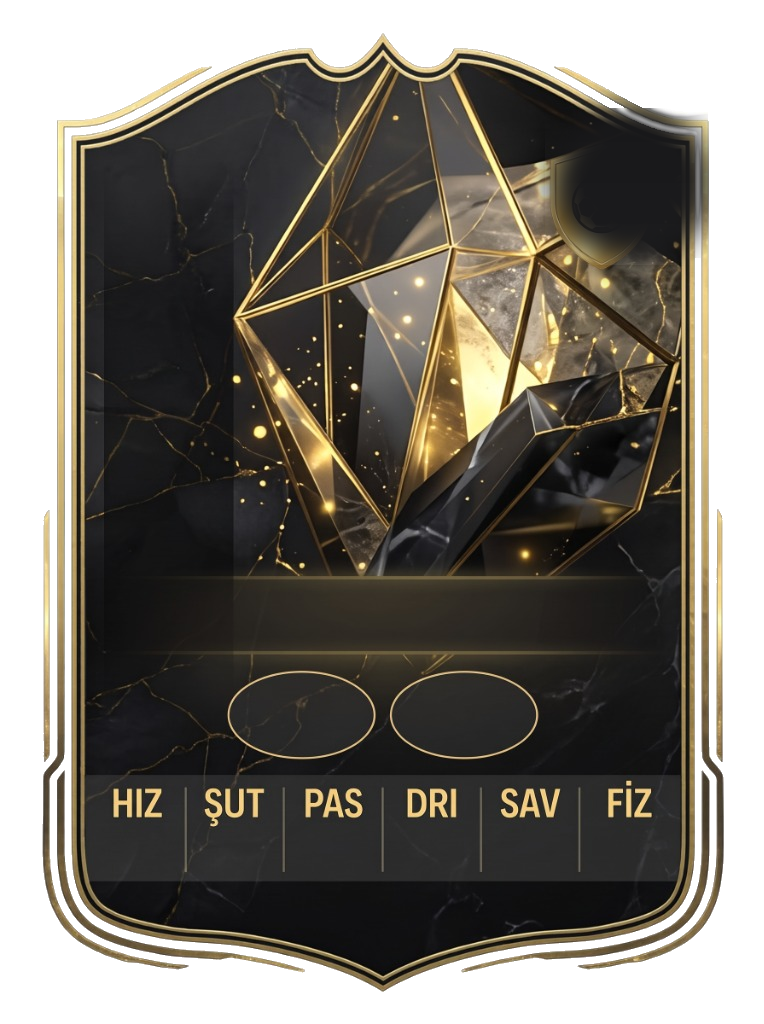
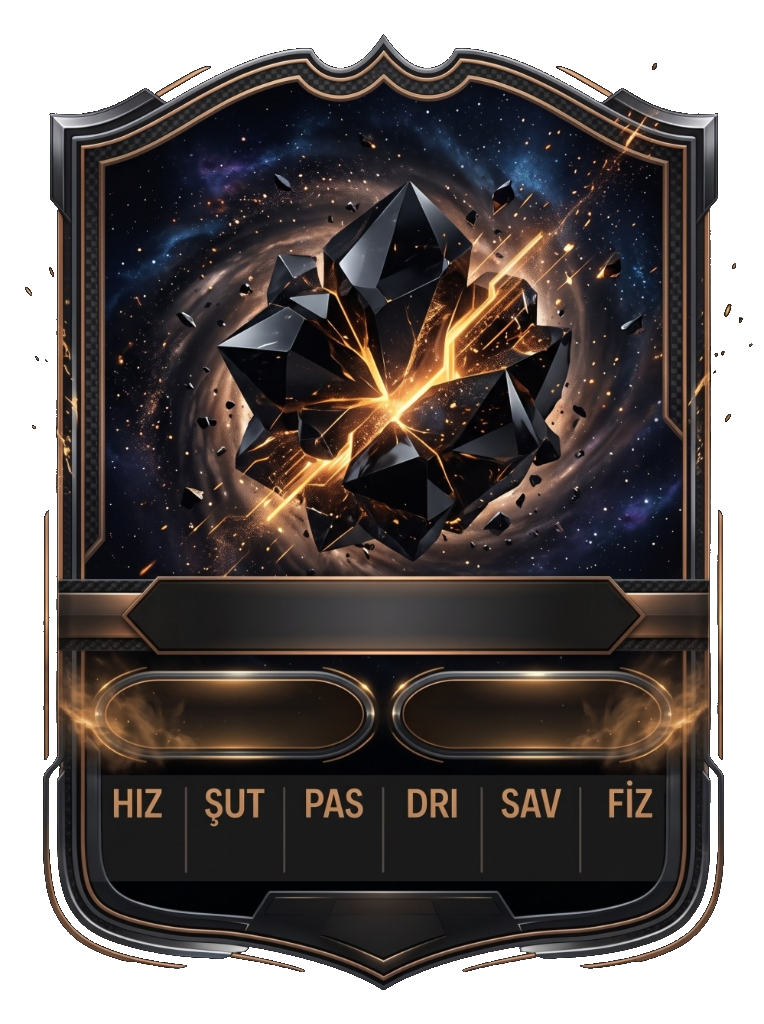
feat(theme): update TOTW to MVP (Most Valuable Player) with new obsidian template and prominent enlarged 3D crest

diff --git a/src/components/card/CardCustomizer.tsx b/src/components/card/CardCustomizer.tsx
@@ -49,7 +49,7 @@ interface Props {
 
 const THEME_INFO: Record<CardTheme, { label: string; icon: string; title: string; desc: string }> = {
   gold: { label: 'Altın', icon: '🟡', title: 'Standart FC 27 Kartı', desc: 'Her oyuncunun temel lig kartıdır.' },
-  totw: { label: 'TOTW', icon: '⚫', title: 'Haftanın MVP Takımı', desc: 'Haftanın en iyi oyuncularına Kurul tarafından hediye edilir.' },
+  totw: { label: 'MVP', icon: '⭐', title: 'Haftanın En Değerli Oyuncusu (MVP)', desc: 'Haftanın en iyi oyuncusuna Kurul ve maç sonu oylaması tarafından hediye edilir.' },
   inform: { label: 'In-Form', icon: '🔥', title: 'Alevli / Formda', desc: 'Yüksek form grafiği ve parlayan performanslar için Kurul tarafından verilir.' },
   revir: { label: 'Revir', icon: '🩹', title: 'Bandajlı Sakat Raporu', desc: 'Maç öncesi sakatlık check-in durumu bildiren oyunculara otomatik atanır.' },
   legend: { label: 'Efsane', icon: '👑', title: 'Kulüp Efsanesi', desc: 'İsmail Abi ve Gölcür Abi gibi kulüp efsanelerine özel unvandır.' },
@@ -715,7 +715,7 @@ export const CardCustomizer: React.FC<Props> = ({
                     <div className="grid grid-cols-3 sm:grid-cols-6 gap-1.5">
                       {[
                         { id: 'gold' as CardTheme, label: 'Altın', icon: '🟡', desc: 'Standart (OVR 75+)' },
-                        { id: 'totw' as CardTheme, label: 'TOTW', icon: '⚫', desc: 'Haftanın MVP’si' },
+                        { id: 'totw' as CardTheme, label: 'MVP', icon: '⭐', desc: 'Haftanın En Değerli Oyuncusu' },
                         { id: 'inform' as CardTheme, label: 'In-Form', icon: '🔥', desc: 'Formda / Alevli' },
                         { id: 'revir' as CardTheme, label: 'Revir', icon: '🩹', desc: 'Bandajlı Sakat' },
                         { id: 'legend' as CardTheme, label: 'Efsane', icon: '👑', desc: 'İsmail & Gölcür Abi' },
@@ -748,9 +748,9 @@ export const CardCustomizer: React.FC<Props> = ({
                         <div>
                           <span className="font-bold text-white block">{themeDetails.title}</span>
                           <span className="text-[10px] text-neutral-400">
-                            {currentTheme === 'gold' && 'Standart kartınız. Sakatlıkta Revir 🩹, MVP olunca TOTW/Alev 🔥 takılır.'}
+                            {currentTheme === 'gold' && 'Standart kartınız. Sakatlıkta Revir 🩹, En iyi oyuncu seçilince MVP ⭐ veya Alev 🔥 takılır.'}
                             {currentTheme === 'revir' && 'Maç öncesi hafif sakatım check-in durumu bildirdiğiniz için takıldı.'}
-                            {currentTheme === 'totw' && 'Haftanın MVP takımı seçildiğiniz için Kurul tarafından hediye edildi.'}
+                            {currentTheme === 'totw' && 'Haftanın En Değerli Oyuncusu (MVP) seçildiğiniz için Kurul tarafından hediye edildi.'}
                             {currentTheme === 'inform' && 'Formda performansınız için Kurul tarafından hediye edildi.'}
                             {currentTheme === 'bidon' && 'Maç sonu oylamasında ceza/mizah kartı olarak takıldı.'}
                             {currentTheme === 'legend' && 'Kulüp efsanesi unvanı.'}

diff --git a/src/components/card/FCCard.tsx b/src/components/card/FCCard.tsx
@@ -106,14 +106,14 @@ export const FCCard: React.FC<Props> = ({
           ovalIconColor: 'text-[#FACC15]',
           ovalDropShadow: 'drop-shadow-[0_1px_3px_rgba(0,0,0,0.95)]',
           nameTop: 'top-[52.0%]',
-          statTop: 'top-[82.2%]',
+          statTop: 'top-[81.2%]',
           statBounds: 'left-[11.3%] right-[11.3%]',
-          ovalsTop: 'top-[65.2%]',
-          ovalsBounds: 'left-[10.5%] right-[10.5%]',
-          ovalsHeight: 'h-[7.2%]',
+          ovalsTop: 'top-[67.0%]',
+          ovalsBounds: 'left-[9.5%] right-[9.5%]',
+          ovalsHeight: 'h-[5.8%]',
           photoFrame: 'top-[11%] left-[12%] right-[8%] h-[44%]',
           isGold: false,
-          label: 'TOTW • MVP',
+          label: 'MVP (Most Valuable Player) 🏆',
         };
       case 'inform':
         return {
@@ -235,6 +235,7 @@ export const FCCard: React.FC<Props> = ({
       flagWidth: 'w-5.5 h-3.5',
       logoWidth: 'w-5.5 h-5.5',
       shieldSize: 'w-7 h-8',
+      mvpShieldSize: 'w-10 h-11',
       pillText: 'text-[8px]',
       pillPad: 'px-1.5 py-0.5',
     },
@@ -250,6 +251,7 @@ export const FCCard: React.FC<Props> = ({
       flagWidth: 'w-8 h-5',
       logoWidth: 'w-8 h-8',
       shieldSize: 'w-11 h-13',
+      mvpShieldSize: 'w-15 h-17',
       pillText: 'text-[10px]',
       pillPad: 'px-2.5 py-0.5',
     },
@@ -265,6 +267,7 @@ export const FCCard: React.FC<Props> = ({
       flagWidth: 'w-10 h-6',
       logoWidth: 'w-10 h-10',
       shieldSize: 'w-14 h-16',
+      mvpShieldSize: 'w-20 h-23',
       pillText: 'text-xs',
       pillPad: 'px-3 py-1',
     },
@@ -399,7 +402,11 @@ export const FCCard: React.FC<Props> = ({
 
         {/* Sağ Üst Tema Kalkanı (3D Parallax: translateZ(6px) - Zarif ve doğal derinlikli 3D kalkan) */}
         <div
-          className={`absolute top-[13.0%] right-[13.5%] ${sizeConfig.shieldSize} pointer-events-none z-30 select-none`}
+          className={`absolute ${
+            theme === 'totw'
+              ? `top-[9.8%] right-[9.5%] ${sizeConfig.mvpShieldSize}`
+              : `top-[13.0%] right-[13.5%] ${sizeConfig.shieldSize}`
+          } pointer-events-none z-30 select-none`}
           style={{
             transform: `translateZ(6px) translate3d(${pX * 0.06}px, ${pY * 0.06}px, 0)`,
             transition: isHovered ? 'none' : 'transform 0.35s ease-out',

diff --git a/src/components/reminder/ReminderHubModal.tsx b/src/components/reminder/ReminderHubModal.tsx
@@ -63,7 +63,7 @@ export const ReminderHubModal: React.FC<Props> = ({
       return `⚽ *RevirFC 27 • Maç Öncesi Check-In Hatırlatması*\n\nBeyler selam! ${match.title} için kadro dengeleme algoritması çalıştırılacak.\nHenüz sağlık/revir durumu bildirmeyen arkadaşlar:\n👉 ${names || 'Herkes bildirdi!'}\n\n3 saniyede durumunuzu seçip onaylayın:\n🔗 ${siteUrl}`;
     } else if (activeTab === 'rating') {
       const names = missingRatingPlayers.map((p) => p.name).join(', ');
-      return `🏆 *RevirFC 27 • Maç Sonu 360° Puanlama*\n\nMaç bitti! Haftanın TOTW (Siyah Kart) MVP'si ve Günün Bidonu'nu belirlemek için karneler 24 saat açık.\nPuanlamasını yapmayanlar:\n👉 ${names || 'Herkes tamamladı!'}\n\nOylarınızı gönderin, kartlar güncellensin:\n🔗 ${siteUrl}`;
+      return `🏆 *RevirFC 27 • Maç Sonu 360° Puanlama*\n\nMaç bitti! Haftanın MVP'si (Most Valuable Player) ve Günün Bidonu'nu belirlemek için karneler 24 saat açık.\nPuanlamasını yapmayanlar:\n👉 ${names || 'Herkes tamamladı!'}\n\nOylarınızı gönderin, kartlar güncellensin:\n🔗 ${siteUrl}`;
     } else {
       const pendingCommittee = committeeStatus.filter((c) => !c.isDone).map((c) => `${c.name} (${c.scoredCount}/${c.total})`).join(', ');
       return `⭐ *RevirFC 27 • Kurul Kalibrasyon Hatırlatması*\n\nKurul üyelerimiz (${pendingCommittee || 'Tümü tamamlandı!'}), 20 kişilik kadronun baz reyting konsensüsünü tamamlamak için linke tıklayıp kaydırıcılarla puanları kaydedebilirsiniz:\n🔗 ${siteUrl}/?tab=scouting`;

diff --git a/src/components/match/TacticalPitch.tsx b/src/components/match/TacticalPitch.tsx
@@ -138,7 +138,11 @@ export const TacticalPitch: React.FC<Props> = ({
           <img
             src={THEME_SHIELDS[theme]}
             alt=""
-            className="absolute top-[12%] right-[14%] w-2 h-2.5 sm:w-2.5 sm:h-3 md:w-3 md:h-3.5 object-contain pointer-events-none z-20 opacity-90 drop-shadow-sm select-none"
+            className={`absolute ${
+              theme === 'totw'
+                ? 'top-[10%] right-[11%] w-2.5 h-3.5 sm:w-3.5 sm:h-4.5 md:w-4 md:h-5'
+                : 'top-[12%] right-[14%] w-2 h-2.5 sm:w-2.5 sm:h-3 md:w-3 md:h-3.5'
+            } object-contain pointer-events-none z-20 opacity-90 drop-shadow-sm select-none`}
           />
 
           {/* İsim Plakası (Kart üzerinde) */}

diff --git a/src/components/rating/MatchRatingModal.tsx b/src/components/rating/MatchRatingModal.tsx
@@ -211,7 +211,7 @@ export const MatchRatingModal: React.FC<Props> = ({
             {/* MVP */}
             <div className="bg-neutral-800/80 p-3 rounded-xl border border-amber-500/40">
               <label className="text-xs font-bold text-amber-300 block mb-1">
-                🏆 MVP (Haftanın TOTW Siyah Kartı)
+                🏆 Haftanın MVP'si (Most Valuable Player)
               </label>
               <select
                 value={awards.mvpId}

diff --git a/src/components/card/SquadCardGallery.tsx b/src/components/card/SquadCardGallery.tsx
@@ -142,7 +142,7 @@ export const SquadCardGallery: React.FC<Props> = ({ players, onSelectPlayer }) =
                 : 'bg-neutral-950 text-amber-400 border-amber-500/30'
             }`}
           >
-            <Crown className="w-3 h-3" /> TOTW (Siyah)
+            <Crown className="w-3 h-3" /> MVP (Siyah-Altın)
           </button>
           <button
             onClick={() => setThemeFilter('inform')}

diff --git a/README.md b/README.md
@@ -15,7 +15,7 @@ EA Sports FC 27 tarzı dinamik oyuncu kartları, $C(11,5) = 462$ kombinasyonlu k
 - **6 Temel Halı Saha Metriği:** PAC (Kondisyon), SHO (Bitiricilik), PAS (Oyun Kurma), DRI (Dar Alan Tekniği), DEF (Kademe), PHY (İkili Mücadele & Direnç).
 - **Dinamik Kart Temaları:**
   - 🥇 **Altın Nadir (Gold Rare):** Standart kart.
-  - 🏆 **TOTW (Siyah-Altın):** Geçen maçın MVP'si o hafta sahaya siyah parlayan kartla çıkar.
+  - 🏆 **MVP (Siyah-Altın Kozmik):** Geçen maçın MVP'si (Most Valuable Player) o hafta sahaya siyah kristal parlayan ve 3D MVP simgeli kartla çıkar.
   - 🔥 **In-Form (Alevli):** Son 3 maçta reytingi sürekli yükselen oyuncular.
   - 🩹 **Revir Kartı (Bandaj İkonlu):** "Hafif Sakat" bildirimi yapan oyuncunun kartında sargı rozeti ve revir teması belirir.
 - **PlayStyles+ Rozetleri:** Ciğersiz (relentless), Balyoz (power_shot), Ahtapot (octopus), Beton Duvar (wall), İleride Bekleyen (poacher), Maestro, Ayak Tenisçisi.
